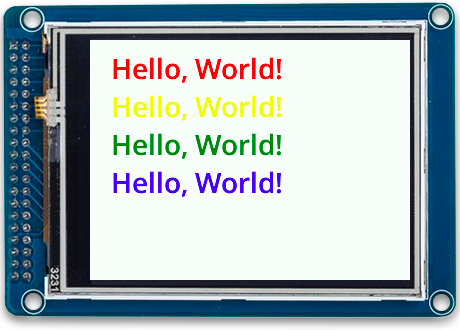
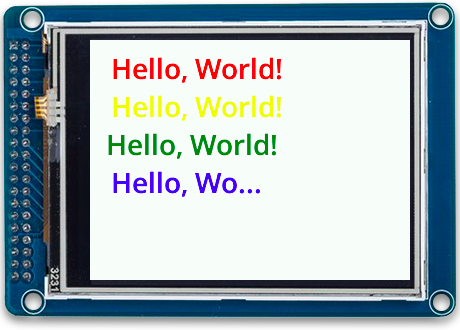
Piu doc updates

Changed region(s): [[0.213, 0.3939, 0.6087, 0.4848], [0.5174, 0.5152, 0.6087, 0.6061]]

diff --git a/documentation/piu/piu.md b/documentation/piu/piu.md
@@ -70,11 +70,6 @@ The graphical user interface elements of Piu applications are composed of a hier
 
 Applications use constructors to define `content` and `container` objects. These objects are attached to the containment hierarchy using the `add`, `insert`, and `replace` functions, and are removed from the containment hierarchy using the `remove` and `replace` functions. See [Functions](#container-functions) in the section [Container Object](#container-object) for descriptions of these properties.
 
-<!--
-TO DO:
-For more information about how `content` and `container` objects are used in applications, see the [Piu Containment Hierarchy document][29].
--->
-
 #### Bound and Unbound Contents
 
 Contents that are not attached to the containment hierarchy are called *unbound* contents; contents attached to the containment hierarchy, *bound* contents. Only objects that are part of the containment hierarchy appear on screen. 
@@ -2816,7 +2811,7 @@ application.add(samplePort);
 | `string` | `string` | The string to draw
 | `style` | `style` | The style to use to draw the string
 | `x, y, width, height` | `number` | The local position and size of the area in which to draw, in pixels
-| `ellipsis` | `boolean` | [TO DO: figure out what this does]
+| `ellipsis` | `boolean` | If `true`, the string is truncated to fit the specified bounds. If `false`, the entire string is drawn, even if it extends beyond the specified bounds.
 | `state` | `number` | The state of the style to draw. If the specified style has multiple fill colors, setting the state selects which color to use.
 
 Draws a string with the style, position, and state speciied.
@@ -2834,8 +2829,8 @@ let samplePort = new Port(null, {
 			let h = size.height;
 			port.drawStyle(string, sampleStyle, 20, 10, w, h, true, 0);
 			port.drawStyle(string, sampleStyle, 20, h+10, w, h, true, 1);
-			port.drawStyle(string, sampleStyle, 20, h*2+10, w, h, true, 2);
-			port.drawStyle(string, sampleStyle, 20, h*3+10, w, h, true, 3);
+			port.drawStyle(string, sampleStyle, 20, h*2+10, w-10, h, false, 2);	// Not truncated
+			port.drawStyle(string, sampleStyle, 20, h*3+10, w-10, h, true, 3);	// Truncated
 		}
 	}
 });
@@ -3583,10 +3578,13 @@ application.add(sampleLabel2);
 | Parameter | Type | Description |
 | --- | --- | :--- |
 | `bottom` | `number` | This style's bottom margin, in pixels (setting the `bottom` property of the created instance, and `bottom` in the created instance's `margins` property)
-| `indentation` | `number` | This style's indentation--the indentation of the first line of a block, in pixels
 | `leading` | `number` | This style's line height, or "leading"--the distance between lines of a block, in pixels. If 0 or unspecified, it is automatically calculated. Use a negative value to force a distance even if lines overlap.
 | `left` | `number` | This style's left margin, in pixels (setting the `left` property of the created instance, and `left` in the created instance's `margins` property)
 | `right` | `number` | This style's right margin, in pixels (setting the `right` property of the created instance, and `right` in the created instance's `margins` property)
+
+<!-- TO DO:
+| `indentation` | `number` | This style's indentation--the indentation of the first line of a block, in pixels
+-->
 
 ##### Label styles only
 
@@ -3617,7 +3615,6 @@ All properties of a `style` object are read-only, but you can change the style o
 | `color` | `object` | `undefined` | This style's color(s), as an array of strings, or `undefined` if no color has been specified. The `state` property of the `content` object using the style determines the index of the array; if `state` is not an integer, colors from surrounding states are blended.
 | `family` | `string` | | This style's font family
 | `horizontal` | `string` | | This style's horizontal alignment, as `left`, `center` (the default), `right`, or `justify`
-| `indentation` | `number` | | This style's indentation--the indentation of the first line of a block, in pixels **TO DO: test this**
 | `leading` | `number` | | This style's line height (or "leading")--the distance between lines of a block, in pixels. If `0` or unspecified, it is automatically calculated
 | `left` | `number` | 0 | The left margin of this style
 | `margins` | `object` | | This style's margins, as an object with `left`, `right`, `top`, and `bottom` number properties, specified in pixels
@@ -3627,6 +3624,11 @@ All properties of a `style` object are read-only, but you can change the style o
 | `top` | `number` | 0 | The top margin of this style
 | `vertical` | `string` | 	| This style's vertical alignment, as `top`, `middle` (the default), or `bottom`, specified in pixels
 | `weight` | `number` | | The weight of this style's font
+
+
+<!-- TO DO:
+| `indentation` | `number` | | This style's indentation--the indentation of the first line of a block, in pixels
+-->
 
 ##### Functions
 
